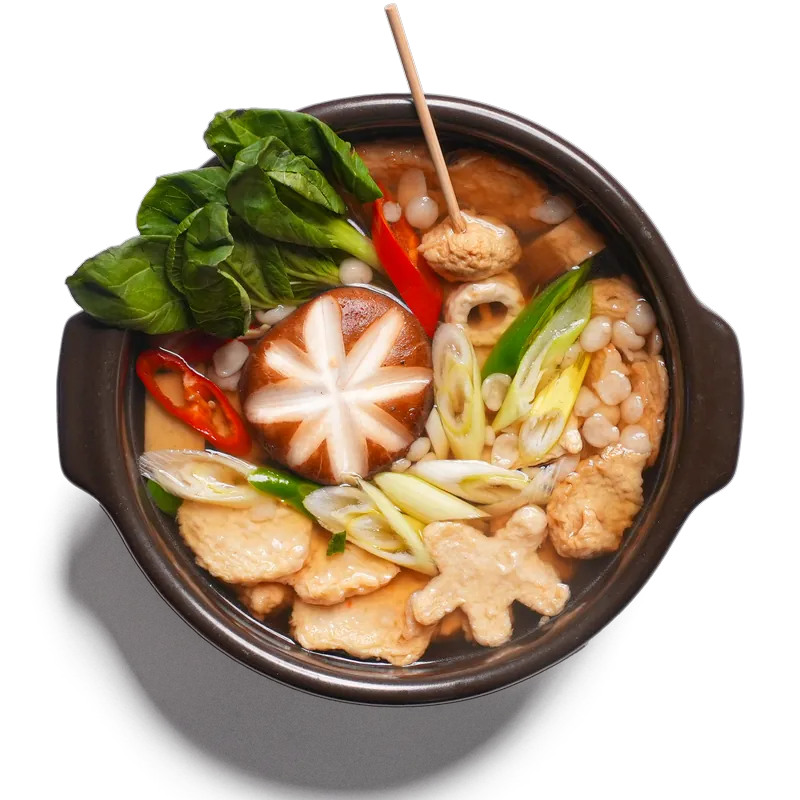
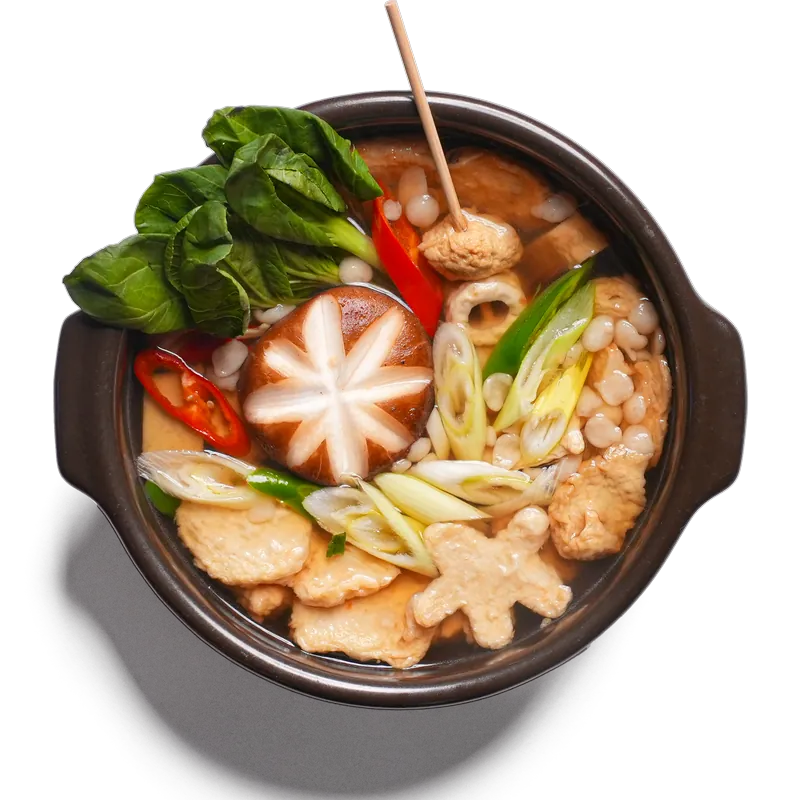
브랜드 연혁 제거 + 문구 2건 수정 + 꼬불이 그릇 크기 통일 + 할인금액 가운데 정렬
- 브랜드 연혁: GNB·모바일 메뉴·라우트·템플릿·sitemap·어드민 링크 제거
  (브랜드 2뎁스가 1개만 남아 드롭다운 자체를 없애고 단일 링크로)
- S3 문구: "빠르게 변하는 / 외식시장 속에서 / 유행만 / 따라가시겠습니까?" 4줄로
- S4 문구: "맥주엔딹은 23년의 / 외식경험을 / 한 곳에 담았습니다" 3줄로
- 꼬불이: 꽂힌 꼬치가 본체로 잡혀 그릇이 작아지던 문제 — 본체 판정 비율을
  이 메뉴만 20%로 올려 그릇만 기준으로 삼음(꼬치 잘림 허용, 클라이언트 확인).
  그릇 크기 가마보꼬 690x616 / 꼬불이 704x638 / 알탕·짬뽕탕 693x613 로 통일.
  돌출부 보호 상한은 제거 — 꼬치가 그릇 크기를 깎는 원인이었음.
- 할인금액(가맹비·교육비) 취소선·할인가를 가운데 정렬 (메인 S12 + 창업비용)

모바일 점검에서 발견해 함께 수정:
- S5 살얼음 캐러셀: 좁은 화면에서 잔끼리 겹침 → 간격 계수 0.185→0.30
  (데스크톱은 270px 상한에 걸려 동작 동일)
- S4 요리 3장: 390px 에서 가로를 넘어 오른쪽이 잘림 → 폭 36/42% → 31/36%

diff --git a/app/static/css/main.css b/app/static/css/main.css
@@ -148,7 +148,7 @@ body.main main{padding:0}
 .s4 .dishes .dish{width:min(34%,470px);margin:0 -2%;display:block}
 .s4 .dishes .dish img{width:100%;height:auto;filter:drop-shadow(0 26px 44px rgba(0,0,0,.6))}
 .s4 .dishes .dish:nth-child(2){width:min(38%,520px);position:relative;z-index:1}
-@media(max-width:1024px){.s4 .dishes .dish{width:36%}.s4 .dishes .dish:nth-child(2){width:42%}}
+@media(max-width:1024px){.s4 .dishes .dish{width:31%;margin:0 -1%}.s4 .dishes .dish:nth-child(2){width:36%}}  /* 3장이 화면을 넘지 않게 */
 
 /* ---------- S5 시그니처 주류 센터포커스 캐러셀 ---------- */
 /* 냉기 배경: 위 어둡고 아래 푸르게 + 생성 서리 텍스처(가장자리·하단) */
@@ -301,7 +301,7 @@ body.main main{padding:0}
 .ctab td:last-child{text-align:right;font-size:15px}
 .ctab td small{display:block;color:#98938a;font-size:11.5px;margin-top:3px;font-family:var(--body);font-weight:400}
 .ctab td .rnote{color:var(--red);font-weight:700}
-.ctab td.dc{color:var(--red)}
+.ctab td.dc{color:var(--red);text-align:center}  /* 할인 항목은 취소선·할인가를 가운데로 */
 .ctab td.dc s{display:block;color:#98938a;font-weight:400;font-size:.82em;line-height:1.15;text-decoration-color:#c0392b;text-decoration-thickness:2px}  /* 취소선 위 · 할인가 아래 세로 배치 */
 .ctab tr.tt td{background:var(--red);color:#fff;font-weight:800}
 .ctab tr.tt td:last-child{font-size:22px}

diff --git a/app/templates/partials/header.html b/app/templates/partials/header.html
@@ -11,13 +11,7 @@
 
     <nav class="gnb" aria-label="주 메뉴">
       <ul>
-        <li>
-          <a href="{{ url_for('brand.info') }}">브랜드</a>
-          <ul class="dep2">
-            <li><a href="{{ url_for('brand.info') }}">브랜드</a></li>
-            <li><a href="{{ url_for('brand.history') }}">연혁</a></li>
-          </ul>
-        </li>
+        <li><a href="{{ url_for('brand.info') }}">브랜드</a></li>
         <li>
           <a href="{{ url_for('menu.preview') }}">메뉴안내</a>
           <ul class="dep2">
@@ -56,10 +50,7 @@
 
 {# 모바일 풀스크린 아코디언 메뉴 #}
 <nav class="mnav" aria-label="모바일 메뉴">
-  <details><summary>브랜드</summary>
-    <a href="{{ url_for('brand.info') }}">브랜드</a>
-    <a href="{{ url_for('brand.history') }}">연혁</a>
-  </details>
+  <a class="m1" href="{{ url_for('brand.info') }}">브랜드</a>
   <details><summary>메뉴안내</summary>
     <a href="{{ url_for('menu.preview') }}">메뉴판 미리보기</a>
     {% for c in gnb_categories %}<a href="{{ url_for('menu.list_', ca_id=c.id) }}">{{ c.name }}</a>{% endfor %}

diff --git a/app/static/css/sub.css b/app/static/css/sub.css
@@ -117,7 +117,7 @@ body.sub .ctab td{padding:13px 18px;border-top:1px solid #EFEBE2;font-size:14px}
 body.sub .ctab td:last-child{text-align:right;font-family:var(--disp);font-weight:700;font-size:15px}
 body.sub .ctab td small{display:block;color:#98938a;font-size:11.5px;margin-top:3px}
 body.sub .ctab td .rnote{color:var(--red);font-weight:700}
-body.sub .ctab td.dc{color:var(--red)}
+body.sub .ctab td.dc{color:var(--red);text-align:center}  /* 할인 항목은 취소선·할인가를 가운데로 */
 body.sub .ctab td.dc s{display:block;color:#98938a;font-weight:400;font-size:.82em;line-height:1.15;text-decoration-color:#c0392b;text-decoration-thickness:2px}  /* 메인 S12 과 동일 — 취소선 위 · 할인가 아래 */
 body.sub .cost-head{text-align:center;font-family:var(--disp);font-weight:700;font-size:clamp(30px,3.6vw,50px);line-height:1.3;margin-bottom:30px}
 body.sub .cost-head .s-sub2{display:block;font-size:.55em;margin-top:8px}

diff --git a/app/templates/admin/base_admin.html b/app/templates/admin/base_admin.html
@@ -21,7 +21,6 @@
       <a href="{{ url_for('admin.board_list', board='interior') }}">인테리어</a>
       <a href="{{ url_for('admin.board_list', board='story') }}">성공 스토리</a>
       <a href="{{ url_for('admin.board_list', board='store') }}">매장</a>
-      <a href="{{ url_for('admin.board_list', board='history') }}">연혁</a>
       <a href="{{ url_for('admin.board_list', board='banner') }}">배너</a>
       <a href="{{ url_for('admin.board_list', board='popup') }}">레이어 팝업</a>
       <a href="{{ url_for('admin.board_list', board='notice') }}">창업소식</a>

diff --git a/app/static/js/main.js b/app/static/js/main.js
@@ -218,7 +218,7 @@
 
     function render() {
       /* 잔 간격: 뷰포트 비례 (PC 최대 300px) — 양옆 잔이 살짝 겹치며 하단을 채움 */
-      var gap = Math.min(window.innerWidth * 0.185, 270);
+      var gap = Math.min(window.innerWidth * 0.30, 270);   // 좁은 화면에서 잔이 겹치지 않게 (데스크톱은 270 상한으로 동일)
       slides.forEach(function (el, i) {
         var off = i - cur;
         if (off > n / 2) off -= n;

diff --git a/import_menus.py b/import_menus.py
@@ -45,6 +45,11 @@ NAME_OVERRIDES = {  # 파싱된 이름 → (표기명, 가격원, 정렬)
 # 카드 배율 개별 보정 (표기명 기준) — 자동 규칙으로 충분하므로 비워둠, 예외 생기면 등록
 CARD_SCALE = {}
 
+# 본체 판정에서 제외할 가는 돌출의 기준(행/열 픽셀 수 / 최대치). 기본 3%.
+# 꼬불이는 꼬치가 여러 개 부채처럼 꽂혀 기본값으로는 본체로 잡혀 그릇이 작아진다
+# → 20% 로 올려 그릇만 본체로 본다 (꼬치는 위로 잘려도 무관 — 클라이언트 확인).
+BODY_FRAC = {"꼬불이": 0.20}
+
 # --- 카드 크기 규칙 (클라이언트 확정) -------------------------------------
 # 기본: 음식이 가마보꼬와 같은 크기로 보이도록 가로x세로 기하평균을 통일한다.
 # 다만 도마 안주처럼 납작한 접시는 이미 가로 폭이 꽉 차 있어 더 키우면 잘리므로 제외한다.
@@ -184,7 +189,7 @@ def _drink_body(alpha, min_a=200, w_ratio=0.42, col_cov=0.70):
             min(w, int((x1 + 1) * sc)), min(h, int((y1 + 1) * sc)))
 
 
-def optimize(src, out_path, max_px, square=False, scale_mult=1.0, drink=False):
+def optimize(src, out_path, max_px, square=False, scale_mult=1.0, drink=False, body_frac=0.03):
     """투명 여백(알파 bbox) 크롭 + RGBA 유지 WebP 저장. 이미 있으면 스킵(--rebuild 시 재생성).
     square=True 면 max_px 정사각 캔버스에 88% 크기로 중앙 배치 → 카드 크기·정렬 통일."""
     from PIL import Image
@@ -219,18 +224,13 @@ def optimize(src, out_path, max_px, square=False, scale_mult=1.0, drink=False):
         else:
             # 음식 실루엣 전체 기준 (_body_bbox) — 손잡이·접시 테두리가 잘리지 않는다
             alpha = img.getchannel("A")
-            solid = _body_bbox(alpha)
+            solid = _body_bbox(alpha, min_frac=body_frac)
             sw, sh = solid[2] - solid[0], solid[3] - solid[1]
             if max(sw / sh, sh / sw) >= FLAT_ASPECT:
                 scale = (max_px * CARD_FILL) / max(sw, sh)      # 도마류: 기존 방식 유지
             else:
                 scale = (max_px * CARD_GEO) / math.sqrt(sw * sh)  # 가마보꼬와 같은 크기감
                 scale = min(scale, max_px * CARD_MAX / sw, max_px * CARD_MAX / sh)
-            # 꽂아둔 젓가락처럼 기준 영역 밖으로 삐져나온 부분도 캔버스 안에 들어오게
-            full = alpha.point(lambda v: 255 if v >= 250 else 0).getbbox() or solid
-            cx, cy = (solid[0] + solid[2]) / 2, (solid[1] + solid[3]) / 2
-            half = max(cx - full[0], full[2] - cx, cy - full[1], full[3] - cy)
-            scale = min(scale, max_px * 0.495 / half)
             scale *= scale_mult
             nw, nh = round(w * scale), round(h * scale)
             img = img.resize((nw, nh), Image.LANCZOS)
@@ -309,7 +309,8 @@ def build_records():
             stem = f"c{cat_no:02d}_m{menu_no:02d}"
             card_kb = optimize(card_src, OUT_DIR / f"{stem}.webp", CARD_SIZE, square=True,
                                scale_mult=CARD_SCALE.get(name, 1.0),
-                               drink=(disp_cat == DRINK_CATEGORY))
+                               drink=(disp_cat == DRINK_CATEGORY),
+                               body_frac=BODY_FRAC.get(name, 0.03))
             detail_kb = optimize(detail_src, OUT_DIR / f"{stem}_d.webp", DETAIL_SIZE)
             rec = {
                 "cat_no": cat_no, "cat_name": disp_cat,

diff --git a/config/brand.py b/config/brand.py
@@ -44,9 +44,9 @@ BRAND = {
 
     # ---------- S3/S4 문제제기→해결 (23년 경험 프레임) ----------
     "contrast_frame": {
-        "problem_headline": "빠르게 변하는 외식시장 속에서<br><em>유행만 따라가시겠습니까?</em>",
+        "problem_headline": "빠르게 변하는<br>외식시장 속에서<br><em>유행만<br>따라가시겠습니까?</em>",
         "problem_sub": "화려한 유행보다 중요한 건 오래 사랑받는 맛",
-        "solution_headline": "맥주엔딹은 <em>23년의 외식 경험</em>을<br>한 곳에 담았습니다",
+        "solution_headline": "맥주엔딹은 <em>23년의<br>외식경험</em>을<br>한 곳에 담았습니다",
         "solution_sub": "투사랑 · 광수비어 23년",
         "disclaimer": "맛과 품질, 메뉴 구성 그리고 운영의 완성도까지 — 오래 사랑받는 기본을 지킵니다.",
     },

diff --git a/app/blueprints/brand.py b/app/blueprints/brand.py
@@ -1,16 +1,8 @@
 from flask import Blueprint, render_template
 
-from ..models import History
-
 bp = Blueprint("brand", __name__)
 
 
 @bp.route("/info")
 def info():
     return render_template("brand/info.html")
-
-
-@bp.route("/history")
-def history():
-    rows = History.query.order_by(History.year.desc(), History.month.desc(), History.sort).all()
-    return render_template("brand/history.html", rows=rows)

diff --git a/app/blueprints/main.py b/app/blueprints/main.py
@@ -67,7 +67,7 @@ def doc(slug):
 def sitemap():
     base = request.url_root.rstrip("/")
     static_paths = [
-        "/", "/brand/info", "/brand/history", "/menu/preview", "/menu/list",
+        "/", "/brand/info", "/menu/preview", "/menu/list",
         "/interior/list", "/startup/step", "/startup/cost",
         "/inquiry/", "/board/notice", "/doc/policy", "/doc/private", "/doc/antiemail",
     ]
